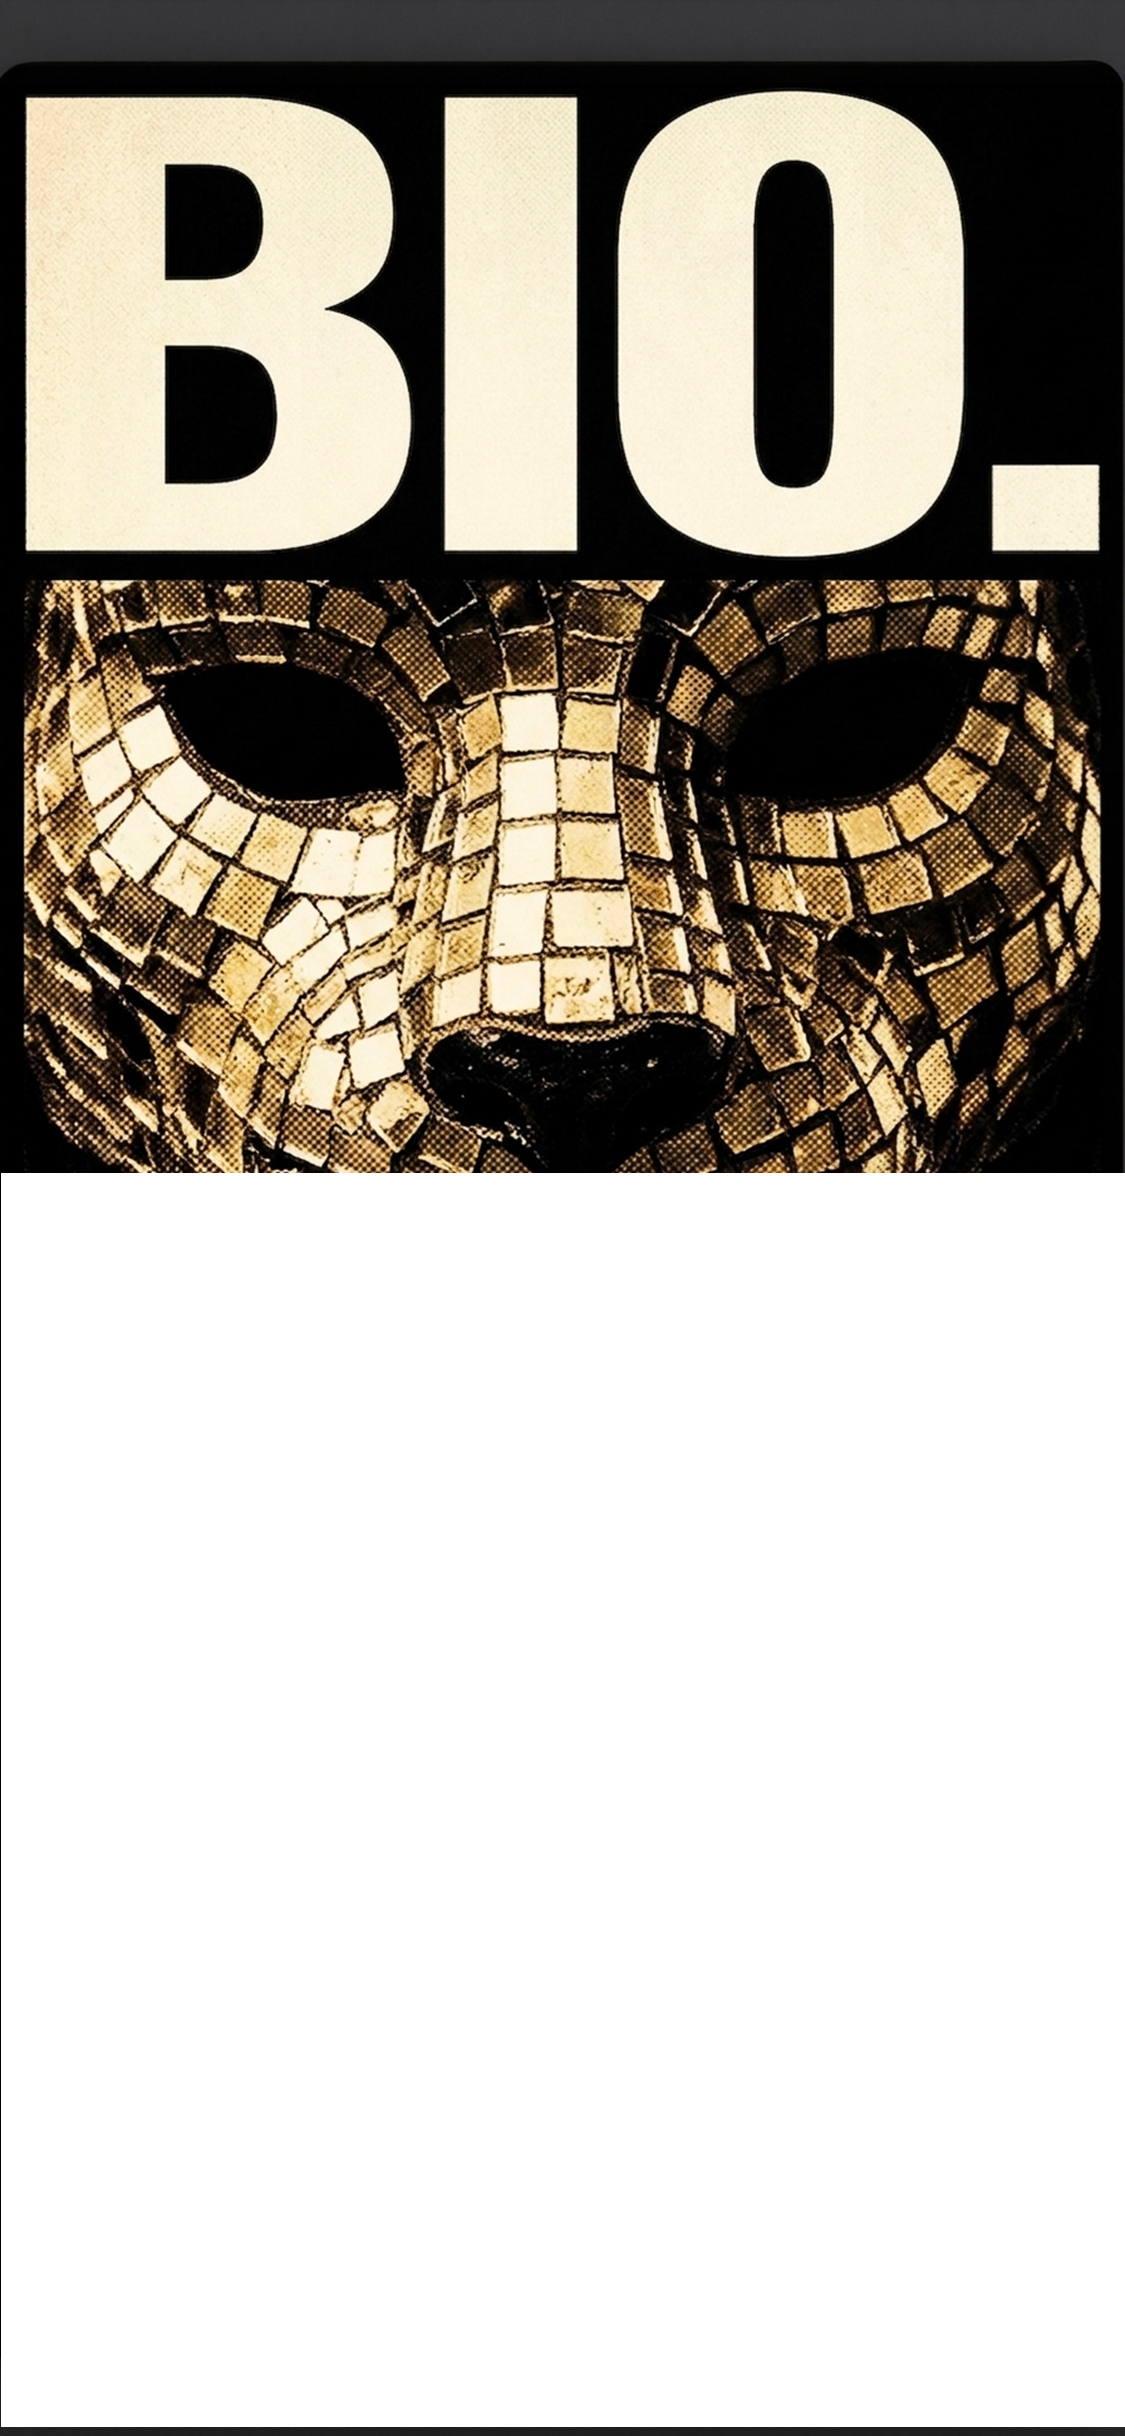
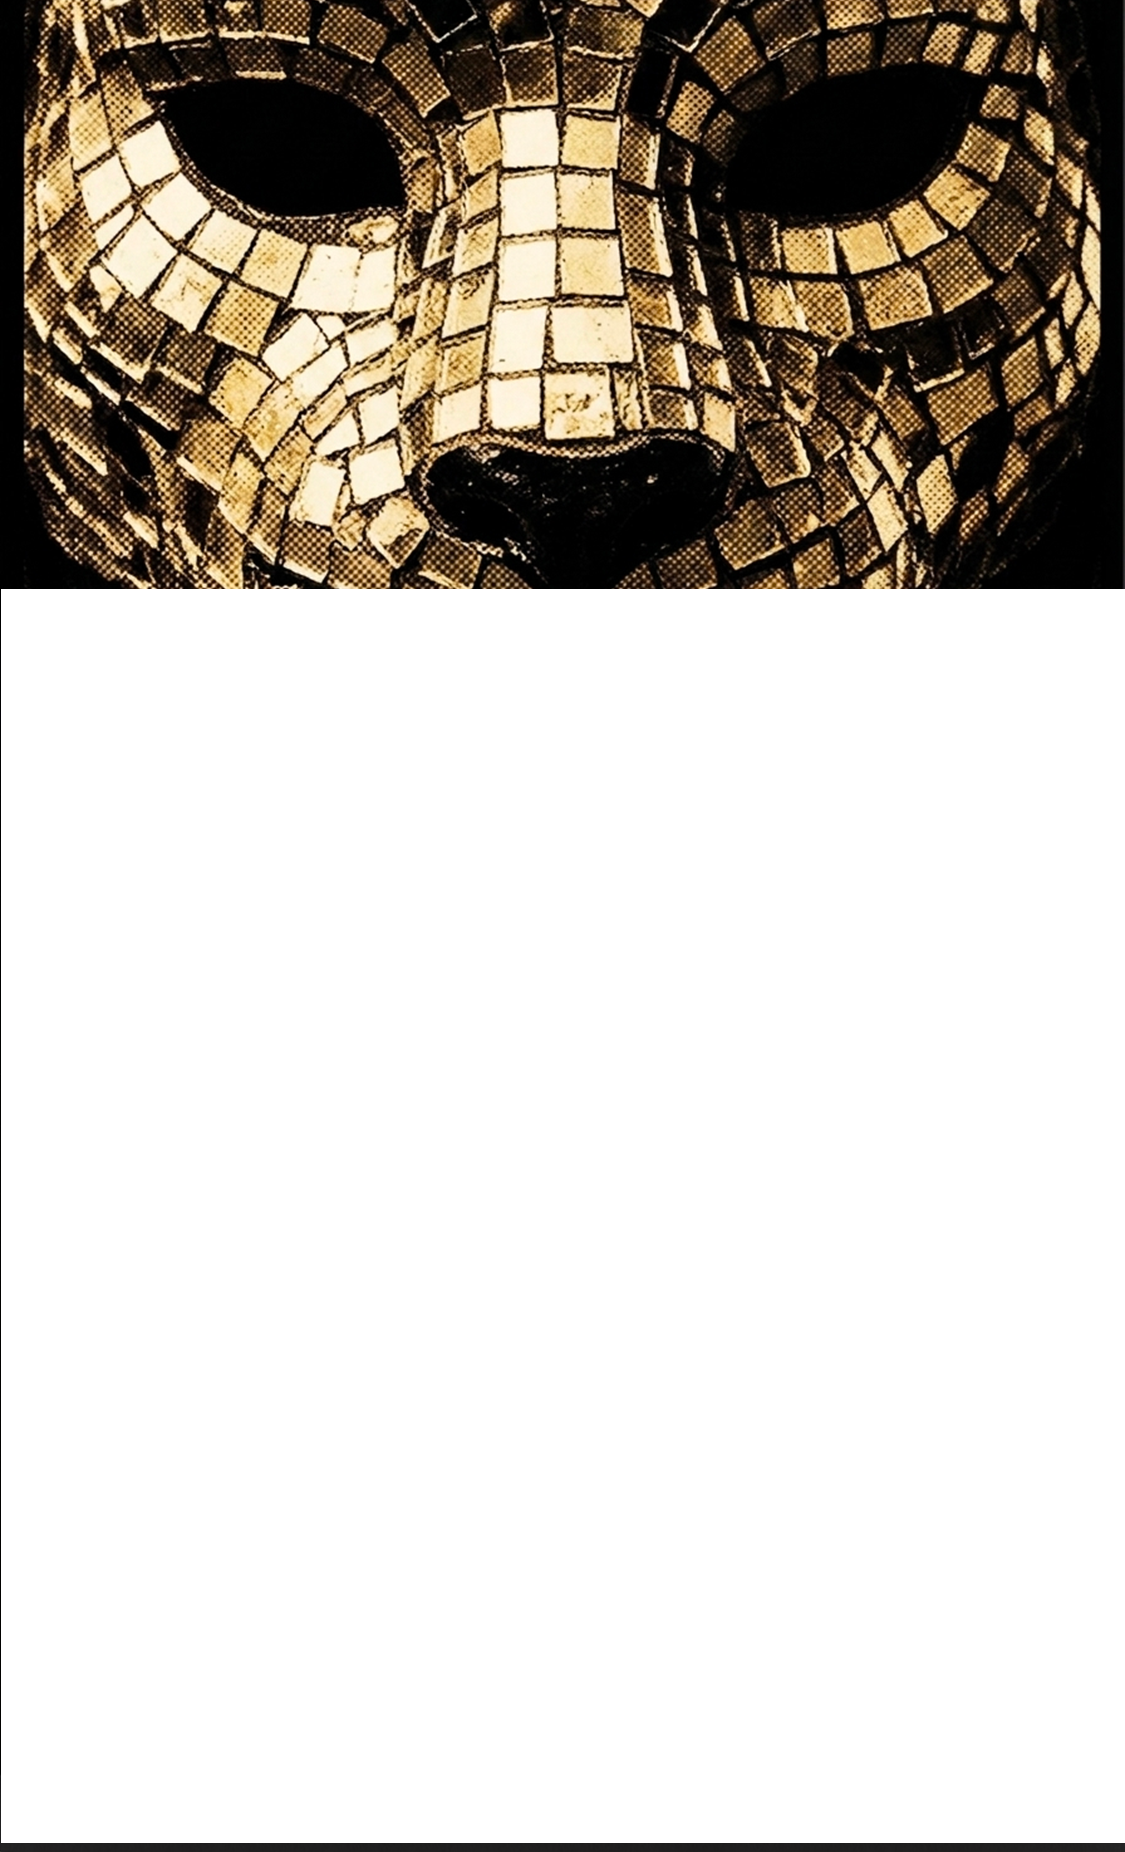
refactor(bio): crop "BIO." off the mask PNG, put the title in HTML
Kevin's idea was simpler: crop the PNG to keep only the jaguar mask,
write the title as an HTML <h1> above the cropped photo, and just
"stop" the body copy at the bottom of the title. No more clip-path
hacks tied to the exact pixel layout of the mask image.

- hero-mask.png: cropped 1125×2436 → 1125×1852 (removes the top 584px
  that contained the baked-in "BIO." lettering). Original preserved
  in assets/_originals (gitignored).
- all.html: <h1 class="bio-hero-title">Bio.</h1> added before the
  <img> inside .bio-hero-sticky. The bio-stop inline script is now
  trivial: atStop = textRect.top <= titleRect.bottom + 1; toggle
  .bio-content--done accordingly. No more percentage math.
- css/bio.css: .bio-hero-title styled (Anton, big, flush-left, opaque
  beige bg so it blocks the video behind), mask now position:relative
  flowing below the title at natural aspect, video as absolute bg.
- css/all.css:
  - .bio-content--preview .bio-text-section min-height 0 → 90dvh so
    the container content area (what sticky uses for its pin range —
    padding doesn't count!) is tall enough for the rising text top
    to reach the title's bottom before the sticky unpins.
  - .bio-content--done now also blacks out .bio-hero-title and
    .bio-text-section backgrounds, and flips the title color to beige
    once "done", so the final reading frame is clean on pure black.

diff --git a/all.html b/all.html
@@ -108,12 +108,13 @@
     <section id="bio-section" class="bio-content bio-content--preview">
 
       <div class="bio-hero-sticky">
+        <h1 class="bio-hero-title">Bio.</h1>
+        <img class="bio-hero-mask bio-hero-mask--visible" src="/assets/bio/hero-mask.png" alt="DON LOW" />
         <video class="bio-hero-video" autoplay muted loop playsinline
                preload="none" data-lazy-video
                poster="/assets/bio/hero-video-poster.jpg">
           <source src="/assets/bio/hero-video.mp4" type="video/mp4" />
         </video>
-        <img class="bio-hero-mask bio-hero-mask--visible" src="/assets/bio/hero-mask.png" alt="DON LOW" />
       </div>
 
       <section class="bio-text-section">
@@ -531,52 +532,33 @@
   <!-- Booking section — generates the WhatsApp QR + stagger-reveals cards -->
   <script src="/js/booking.js" defer></script>
 
-  <!-- Bio mask: crop from bottom so text never overlaps the gold mask.
-       Capped so the top of the mask (BIO text + top of jaguar) stays visible. -->
+  <!-- Bio stop detector: the cropped mask PNG no longer contains the "BIO."
+       title — it's now its own <h1>, with the jaguar photo sitting just
+       below. So the stop logic is dead simple: when the rising text's top
+       reaches the bottom of the title, we're at the landing point, switch
+       the bio into --done state (fade video, bg → black). -->
   <script>
   (function () {
-    var frame  = document.getElementById('frame');
-    var bio    = document.getElementById('bio-section');
-    var sticky = document.querySelector('.bio-hero-sticky');
-    var mask   = document.querySelector('.bio-content--preview .bio-hero-mask');
-    var text   = document.querySelector('.bio-content--preview .bio-text-section');
-    if (!frame || !sticky || !mask || !text) return;
-    // Stop point: text top lands at the bottom of the "BIO." letters (approx
-    // 42% down the hero-mask PNG). Bumped up from 35 so there's a small gap
-    // (micro écart) between the bottom of "BIO." and the top of the body copy.
-    var MIN_MASK_VISIBLE_PCT = 42;
+    var frame = document.getElementById('frame');
+    var bio   = document.getElementById('bio-section');
+    var title = document.querySelector('.bio-content--preview .bio-hero-title');
+    var text  = document.querySelector('.bio-content--preview .bio-text-section');
+    if (!frame || !bio || !title || !text) return;
 
     var scheduled = false;
     function update() {
       scheduled = false;
-      var textRect   = text.getBoundingClientRect();
-      var stickyRect = sticky.getBoundingClientRect();
-      var stickyH    = stickyRect.height;
-      if (stickyH <= 0) return;
-      // How far from the top of the sticky is the text's top? (0 = sticky top, 100 = sticky bottom)
-      var textTopInMask = ((textRect.top - stickyRect.top) / stickyH) * 100;
-      // Keep at least MIN_MASK_VISIBLE_PCT of the mask visible
-      var visibleUpTo = Math.max(MIN_MASK_VISIBLE_PCT, Math.min(100, textTopInMask));
-      var clipPct     = Math.max(0, 100 - visibleUpTo);
-      var clipValue   = 'inset(0 0 ' + clipPct.toFixed(2) + '% 0)';
-      mask.style.setProperty('clip-path', clipValue);
-      mask.style.setProperty('-webkit-clip-path', clipValue);
-      mask.setAttribute('data-clip', clipPct.toFixed(1));
-
-      // Once the text has risen up to the stop point (mask can't shrink any
-      // further because of MIN_MASK_VISIBLE_PCT cap), switch the bio into
-      // "done" mode: fade the video to 0 and swap the sticky bg to black,
-      // so the final reading frame is clean — no moving picture behind.
-      if (bio) {
-        var atStop = textTopInMask <= MIN_MASK_VISIBLE_PCT + 0.5;
-        if (atStop) bio.classList.add('bio-content--done');
-        else        bio.classList.remove('bio-content--done');
-      }
+      var titleRect = title.getBoundingClientRect();
+      var textRect  = text.getBoundingClientRect();
+      // Landing: text's top has risen to (or past) the bottom of the title.
+      // Small slack so we don't flicker at exactly the threshold.
+      var atStop = textRect.top <= titleRect.bottom + 1;
+      if (atStop) bio.classList.add('bio-content--done');
+      else        bio.classList.remove('bio-content--done');
     }
     function request() { if (!scheduled) { scheduled = true; requestAnimationFrame(update); } }
     frame.addEventListener('scroll', request, { passive: true });
     window.addEventListener('resize', request);
-    // Also update after layout stabilizes (fonts, images loaded)
     window.addEventListener('load', update);
     setTimeout(update, 200);
     update();

diff --git a/css/all.css b/css/all.css
@@ -279,7 +279,7 @@ html, body {
 --------------------------------------------------------------- */
 .bio-content--preview {
   padding-top: 0;
-  padding-bottom: 0;    /* no tail buffer — text finishes, next section starts */
+  padding-bottom: 0;
   background: transparent;
 }
 
@@ -296,12 +296,15 @@ html, body {
   top: 28%;
 }
 
-/* Text section: transparent bg — the video + mask behind stays visible
-   through the rising text. No translate — keeping text at natural position
-   so it doesn't rise up into the gold mask area. */
+/* Text section: transparent bg by default. Its min-height is bumped so
+   the bio-content's CONTENT area (not padding) is tall enough to keep
+   the sticky pinned until the rising text's top can reach the bottom
+   of the "Bio." title. Sticky's pin range = parent content height
+   minus sticky height — padding doesn't count, so we extend text. */
 .bio-content--preview .bio-text-section {
   background: transparent;
-  min-height: 0;
+  min-height: 90vh;
+  min-height: 90dvh;
 }
 
 /* Words: lighter color so they read on the dark video behind */
@@ -312,24 +315,34 @@ html, body {
   color: #E85050; /* brighter red — pops on dark video */
 }
 
-/* Bio "done" state — triggered by the mask script once the body copy
-   has fully risen up to the stop point (under the BIO. letters). At
-   that moment we kill the video and switch the sticky bg to pure
-   black for a clean reading frame. Smooth fade on both. */
+/* Bio "done" state — triggered by the bio-stop script once the body copy
+   has risen up to the bottom of the "Bio." title. At that moment we kill
+   the video, switch every bg surface to pure black, and flip the title
+   color from dark-on-beige to beige-on-black so it stays legible. Smooth
+   fade on everything. */
 .bio-content--done .bio-hero-video {
   opacity: 0;
   transition: opacity 0.45s ease;
 }
-.bio-content--done .bio-hero-sticky {
+.bio-content--done .bio-hero-sticky,
+.bio-content--done .bio-hero-title,
+.bio-content--done .bio-text-section,
+.bio-content--done {
   background: #080808;
-  transition: background 0.45s ease;
+  transition: background 0.45s ease, color 0.45s ease;
+}
+.bio-content--done .bio-hero-title {
+  color: #E8E0D0;
 }
 /* Reverse transitions when scrolling back up — user re-sees the video */
 .bio-content--preview .bio-hero-video {
   transition: opacity 0.35s ease;
 }
-.bio-content--preview .bio-hero-sticky {
-  transition: background 0.35s ease;
+.bio-content--preview .bio-hero-sticky,
+.bio-content--preview .bio-hero-title,
+.bio-content--preview .bio-text-section,
+.bio-content--preview {
+  transition: background 0.35s ease, color 0.35s ease;
 }
 
 /* Socials — single line row, centered, just below bio text */

diff --git a/css/bio.css b/css/bio.css
@@ -40,35 +40,54 @@
   background: #E8E0D0;
 }
 
-/* Background video — aligned so its TOP meets the PNG transparent edge (48.1%) */
-.bio-hero-video {
-  position: absolute;
-  top: 48.1%;
-  left: 0;
-  right: 0;
-  bottom: 0;
-  width: 100%;
-  object-fit: cover;
-  object-position: center center;
-  z-index: 1;
+/* Title — "Bio." in Anton, flush-left, opaque beige block at the top of
+   the sticky. Sits above the jaguar photo so the mask PNG no longer
+   needs to bake in the word. */
+.bio-hero-title {
+  position: relative;
+  z-index: 3;
+  margin: 0;
+  padding: 30px 20px 0;
+  font-family: 'Anton', 'Archivo Black', 'Impact', 'Teko', sans-serif;
+  font-weight: 400;
+  font-size: clamp(96px, 34vw, 240px);
+  line-height: 0.88;
+  letter-spacing: -0.015em;
+  color: #080808;
+  text-transform: uppercase;
+  background: #E8E0D0;   /* opaque so the video behind never bleeds through */
 }
 
-/* PNG overlay — transparent bottom reveals the video */
+/* Cropped jaguar photo — no more "BIO." baked in. Flows just below the
+   title at natural aspect ratio, width 100% of sticky. Its bottom half
+   is transparent, revealing the video behind it. */
 .bio-hero-mask {
-  position: absolute;
-  inset: 0;
-  width: 100%;
-  height: 100%;
-  object-fit: cover;
-  object-position: center top;
+  position: relative;
   z-index: 2;
+  display: block;
+  width: 100%;
+  height: auto;
+  margin: 0;
   opacity: 0;
-  transform: scale(1.04);
+  transform: scale(1.02);
+  transform-origin: center top;
   transition: opacity 1s ease, transform 1.4s cubic-bezier(0.25, 0.46, 0.45, 0.94);
 }
 .bio-hero-mask--visible {
   opacity: 1;
   transform: scale(1);
+}
+
+/* Background video — fills the sticky behind everything. The mask photo's
+   transparent bottom lets the video peek through. */
+.bio-hero-video {
+  position: absolute;
+  inset: 0;
+  width: 100%;
+  height: 100%;
+  object-fit: cover;
+  object-position: center center;
+  z-index: 1;
 }
 
 /* --- Text section — sized so scroll stops with ~40% hero still visible --- */
